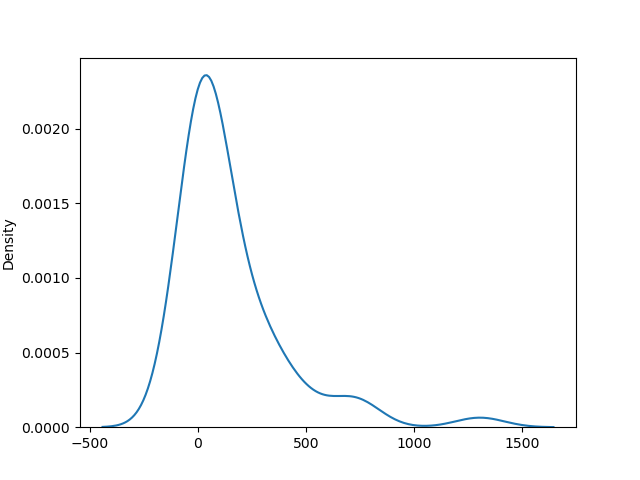
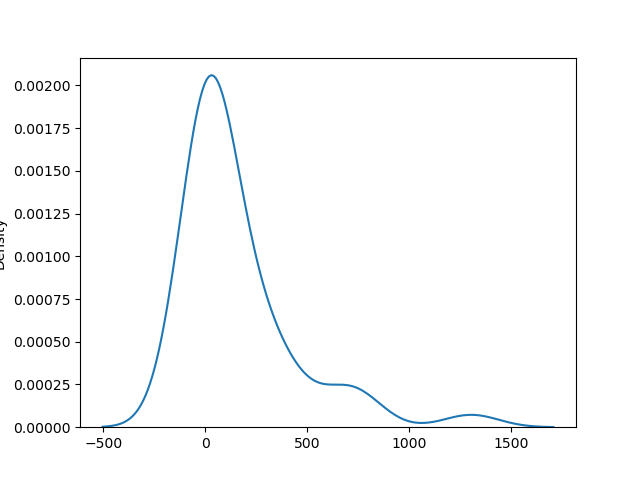
examine outbound bias

diff --git a/src/04_SIMULATION/input.py b/src/04_SIMULATION/input.py
@@ -41,20 +41,20 @@ def extract_params(inbound_route_params=False, outbound_route_params=False, dema
         deadhead_time_params, all_delays, all_trip_times = get_outbound_travel_time(
             path_stop_times, START_TIME_SEC, END_TIME_SEC, DATES, TRIP_TIME_NR_INTERVALS, TRIP_TIME_START_INTERVAL,
             TRIP_TIME_INTERVAL_LENGTH_MINS)
-        # sns.kdeplot(all_delays[1])
-        # plt.savefig('in/delay_short.png')
-        # plt.close()
-        # sns.kdeplot(all_delays[0])
-        # plt.savefig('in/delay_long.png')
-        # plt.close()
-        # sns.kdeplot(all_trip_times[1])
-        # plt.savefig('in/trip_times_short.png')
-        # plt.close()
-        # sns.kdeplot(all_trip_times[0])
-        # plt.savefig('in/trip_times_long.png')
-        # plt.close()
-        # save('in/all_delays_out.pkl', all_delays)
-        # save('in/all_trip_times_out.pkl', all_trip_times)
+        sns.kdeplot(all_delays[1])
+        plt.savefig('in/delay_short.png')
+        plt.close()
+        sns.kdeplot(all_delays[0])
+        plt.savefig('in/delay_long.png')
+        plt.close()
+        sns.kdeplot(all_trip_times[1])
+        plt.savefig('in/trip_times_short.png')
+        plt.close()
+        sns.kdeplot(all_trip_times[0])
+        plt.savefig('in/trip_times_long.png')
+        plt.close()
+        save('in/all_delays_out.pkl', all_delays)
+        save('in/all_trip_times_out.pkl', all_trip_times)
         save('in/xtr/rt_20-2019-09/trips1_info_outbound.pkl', trips1_info_out)
         save('in/xtr/rt_20-2019-09/trips2_info_outbound.pkl', trips2_info_out)
         save('in/xtr/rt_20-2019-09/scheduled_arrivals_outbound.pkl', sched_arrs_out)
@@ -123,10 +123,10 @@ TRIP_TIMES1_PARAMS, TRIP_TIMES2_PARAMS, TRIPS1_INFO_OUT, TRIPS2_INFO_OUT, DEADHE
 TRIP_TIMES1_PARAMS[1] = TRIP_TIMES1_PARAMS[2]
 TRIP_TIMES2_PARAMS[-4] = TRIP_TIMES2_PARAMS[-5]
 TRIP_TIMES1_PARAMS[-1] = TRIP_TIMES1_PARAMS[-2]
-FOCUS_TRIP_IDS_OUT_LONG = [ti[0] for ti in TRIPS1_INFO_OUT if (ti[1] > START_TIME_SEC+3600) and (ti[1] < END_TIME_SEC - 3600)]
-FOCUS_TRIP_IDS_OUT_SHORT = [ti[0] for ti in TRIPS2_INFO_OUT if (ti[1] > START_TIME_SEC+3600) and (ti[1] < END_TIME_SEC - 3600)]
-FOCUS_TRIP_DEP_T_OUT_LONG = [ti[1] for ti in TRIPS1_INFO_OUT if (ti[1] > START_TIME_SEC+3600) and (ti[1] < END_TIME_SEC - 3600)]
-FOCUS_TRIP_DEP_T_OUT_SHORT = [ti[1] for ti in TRIPS1_INFO_OUT if (ti[1] > START_TIME_SEC+3600) and (ti[1] < END_TIME_SEC - 3600)]
+FOCUS_TRIP_IDS_OUT_LONG = [ti[0] for ti in TRIPS1_INFO_OUT if (ti[1] > START_TIME_SEC+3600) and (ti[1] < END_TIME_SEC - 6400)]
+FOCUS_TRIP_IDS_OUT_SHORT = [ti[0] for ti in TRIPS2_INFO_OUT if (ti[1] > START_TIME_SEC+3600) and (ti[1] < END_TIME_SEC - 6400)]
+FOCUS_TRIP_DEP_T_OUT_LONG = [ti[1] for ti in TRIPS1_INFO_OUT if (ti[1] > START_TIME_SEC+3600) and (ti[1] < END_TIME_SEC - 6400)]
+FOCUS_TRIP_DEP_T_OUT_SHORT = [ti[1] for ti in TRIPS2_INFO_OUT if (ti[1] > START_TIME_SEC+3600) and (ti[1] < END_TIME_SEC - 6400)]
 TRIP_IDS_OUT = [ti[0] for ti in TRIPS1_INFO_OUT]
 TRIP_IDS_OUT += [ti[0] for ti in TRIPS2_INFO_OUT]
 LINK_TIMES_MEAN, LINK_TIMES_EXTREMES, LINK_TIMES_PARAMS = LINK_TIMES_INFO

diff --git a/src/04_SIMULATION/main_sim.py b/src/04_SIMULATION/main_sim.py
@@ -11,12 +11,12 @@ from input import FOCUS_TRIP_IDS_OUT_LONG, FOCUS_TRIP_IDS_OUT_SHORT, FOCUS_TRIP_
 st = time.time()
 
 
-def run_base_detailed(episodes=3, save=False, time_dep_tt=True, time_dep_dem=True):
+def run_base_detailed(episodes=4, save=False, time_dep_tt=True, time_dep_dem=True):
     tstamp = datetime.now().strftime('%m%d-%H%M%S')
     trajectories_set = []
     pax_set = []
-    all_delays = []
-    all_trip_times = []
+    all_delays = [[], []]
+    all_trip_times = [[], []]
     for i in range(episodes):
         env = DetailedSimulationEnv(time_dependent_travel_time=time_dep_tt, time_dependent_demand=time_dep_dem)
         done = env.reset_simulation()
@@ -24,8 +24,24 @@ def run_base_detailed(episodes=3, save=False, time_dep_tt=True, time_dep_dem=Tru
             done = env.prep()
         if save:
             env.process_results()
+            for j in range(len(FOCUS_TRIP_IDS_OUT_LONG)):
+                sched_dep = FOCUS_TRIP_DEP_T_OUT_LONG[j]
+                actual_dep = env.log.recorded_departures[FOCUS_TRIP_IDS_OUT_LONG[j]]
+                actual_arr = env.log.recorded_arrivals[FOCUS_TRIP_IDS_OUT_LONG[j]]
+                all_delays[0].append(actual_dep-sched_dep)
+                all_trip_times[0].append(actual_arr-actual_dep)
+            for j in range(len(FOCUS_TRIP_IDS_OUT_SHORT)):
+                sched_dep = FOCUS_TRIP_DEP_T_OUT_SHORT[j]
+                actual_dep = env.log.recorded_departures[FOCUS_TRIP_IDS_OUT_SHORT[j]]
+                actual_arr = env.log.recorded_arrivals[FOCUS_TRIP_IDS_OUT_SHORT[j]]
+                all_delays[1].append(actual_dep-sched_dep)
+                all_trip_times[1].append(actual_arr-actual_dep)
+    post_process.save('in/actual_delays_out.pkl', all_delays)
+    post_process.save('in/actual_trip_times_out.pkl', all_trip_times)
             # trajectories_set.append(env.trajectories)
             # pax_set.append(env.completed_pax)
+    # print(all_delays)
+    # print(all_trip_times)
     # if save:
         # path_trajectories = 'out/NC/trajectories_set_' + tstamp + ext_var
         # path_completed_pax = 'out/NC/pax_set_' + tstamp + ext_var

diff --git a/src/04_SIMULATION/pre_process.py b/src/04_SIMULATION/pre_process.py
@@ -301,7 +301,7 @@ def get_outbound_travel_time(path_stop_times, start_time, end_time, dates, nr_in
                     dep_delay = schd_sec[0] - (dep_sec[0] % 86400)
                     dep_delay1.append(-dep_delay)
 
-                    if (schd_sec[0] > start_time + 3600) and (schd_sec[0] < end_time - 3600):
+                    if (schd_sec[0] > start_time + 3600) and (schd_sec[0] < end_time - 6200):
                         dep_delay_record_long.append(dep_delay1[-1])
                         trip_time_record_long.append(arrival_sec[-1] - dep_sec[0])
 
@@ -335,7 +335,7 @@ def get_outbound_travel_time(path_stop_times, start_time, end_time, dates, nr_in
                     schd_sec = df['schd_sec'].tolist()
                     dep_delay = schd_sec[0] - (dep_sec[0] % 86400)
                     dep_delay2.append(-dep_delay)
-                    if (schd_sec[0] > start_time + 3600) and (schd_sec[0] < end_time - 3600):
+                    if (schd_sec[0] > start_time + 3600) and (schd_sec[0] < end_time - 6200):
                         dep_delay_record_short.append(dep_delay2[-1])
                         trip_time_record_short.append(arrival_sec[-1] - dep_sec[0])
 
